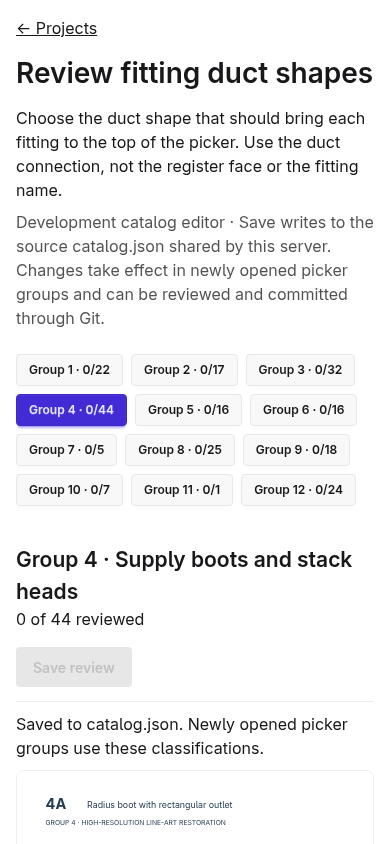
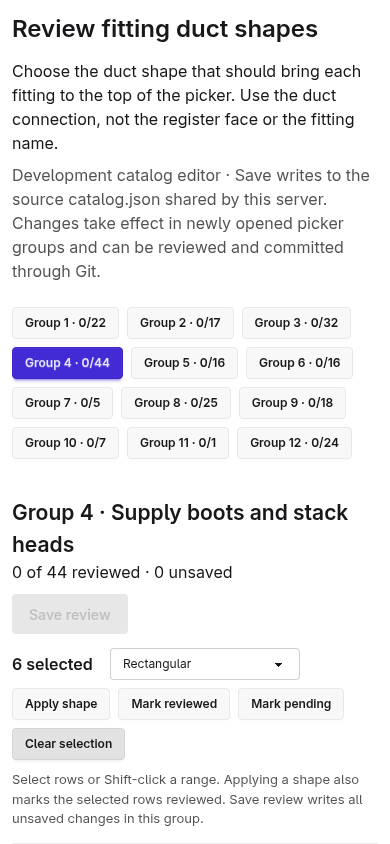
Make catalog review a compact table with bulk classification actions

Changed region(s): [[0.0308, 0.0, 0.9538, 0.7393], [0.0308, 0.7701, 0.9231, 0.9858]]

diff --git a/Sources/ViewController/Views/FittingPicker/CatalogReviewView.swift b/Sources/ViewController/Views/FittingPicker/CatalogReviewView.swift
@@ -76,43 +76,111 @@ struct CatalogReviewView: HTML, Sendable {
         }
       }
       div(.class("review-save-bar")) {
-        div {
-          h2 { "Group \(group.rawValue) · \(entries.first?.groupTitle ?? "Fittings")" }
-          p(.id("review-progress")) {
-            "\(entries.filter(\.reviewed).count) of \(entries.count) reviewed"
+        div(.class("review-save-heading")) {
+          div {
+            h2 { "Group \(group.rawValue) · \(entries.first?.groupTitle ?? "Fittings")" }
+            p(.id("review-progress")) {
+              "\(entries.filter(\.reviewed).count) of \(entries.count) reviewed"
+            }
+          }
+          button(.id("save-catalog-review"), .type(.button), .class("btn btn-primary"), .disabled) {
+            "Save review"
           }
         }
-        button(.id("save-catalog-review"), .type(.button), .class("btn btn-primary"), .disabled) {
-          "Save review"
+        div(
+          .class("review-bulk"), .init(name: "role", value: "group"),
+          .init(name: "aria-label", value: "Bulk review actions")
+        ) {
+          span(.id("review-selection-count"), .init(name: "role", value: "status")) { "0 selected" }
+          select(
+            .id("review-bulk-shape"), .class("select select-bordered select-sm"),
+            .init(name: "aria-label", value: "Duct shape for selected rows")
+          ) {
+            option(.value("")) { "Choose duct shape…" }
+            for shape in Fitting.Shape.allCases {
+              option(.value(shape.rawValue)) { shape.reviewLabel }
+            }
+          }
+          button(.id("review-apply-shape"), .type(.button), .class("btn btn-sm"), .disabled) {
+            "Apply shape"
+          }
+          button(.id("review-mark-reviewed"), .type(.button), .class("btn btn-sm"), .disabled) {
+            "Mark reviewed"
+          }
+          button(.id("review-mark-pending"), .type(.button), .class("btn btn-sm"), .disabled) {
+            "Mark pending"
+          }
+          button(
+            .id("review-clear-selection"), .type(.button), .class("btn btn-sm btn-ghost"), .disabled
+          ) { "Clear selection" }
+        }
+        p(.class("review-note review-selection-help")) {
+          "Select rows or Shift-click a range. Applying a shape also marks the selected rows reviewed. Save review writes all unsaved changes in this group."
         }
       }
       p(.id("review-status"), .init(name: "role", value: "status")) {}
-      div(.class("review-grid")) {
-        for entry in entries {
-          article(.class("review-card"), .data("review-id", value: entry.id.rawValue)) {
-            a(.href(entry.artwork.versionedPath), .target("_blank"), .rel("noopener")) {
-              img(
-                .src(entry.artwork.versionedPath), .alt(entry.artwork.altText),
-                .init(name: "loading", value: "lazy"))
+      div(
+        .class("review-table-scroll"), .init(name: "tabindex", value: "0"),
+        .init(name: "role", value: "region"),
+        .init(name: "aria-label", value: "Fitting classifications")
+      ) {
+        table(.class("review-table")) {
+          thead {
+            tr {
+              th(.init(name: "scope", value: "col")) {
+                input(
+                  .id("review-select-all"), .type(.checkbox), .class("checkbox checkbox-sm"),
+                  .init(name: "aria-label", value: "Select all fittings in this group"))
+              }
+              th(.init(name: "scope", value: "col")) { "Drawing" }
+              th(.init(name: "scope", value: "col")) { "Fitting" }
+              th(.init(name: "scope", value: "col")) { "Prefer for duct shape" }
+              th(.init(name: "scope", value: "col")) { "Reviewed" }
+              th(.init(name: "scope", value: "col")) { "Status" }
             }
-            div(.class("review-card-controls")) {
-              h3 { "\(entry.sourceCode?.rawValue ?? "Group 11") · \(entry.name)" }
-              small { entry.id.rawValue }
-              label {
-                "Prefer for duct shape"
-                select(.name("ductShape"), .class("select select-bordered")) {
-                  for shape in Fitting.Shape.allCases {
-                    option(.value(shape.rawValue)) { shape.reviewLabel }.attributes(
-                      .selected, when: shape == entry.ductShape)
+          }
+          tbody {
+            for entry in entries {
+              let code = entry.sourceCode?.rawValue ?? "Group 11"
+              tr(.data("review-id", value: entry.id.rawValue)) {
+                td {
+                  input(
+                    .type(.checkbox), .name("selected"), .class("checkbox checkbox-sm"),
+                    .init(name: "aria-label", value: "Select \(code)"))
+                }
+                td(.class("review-drawing")) {
+                  a(
+                    .href(entry.artwork.versionedPath), .target("_blank"), .rel("noopener"),
+                    .init(name: "aria-label", value: "Open \(code) drawing at full size")
+                  ) {
+                    img(
+                      .src(entry.artwork.versionedPath), .alt(entry.artwork.altText),
+                      .init(name: "loading", value: "lazy"))
                   }
                 }
+                th(.init(name: "scope", value: "row"), .class("review-fitting")) {
+                  strong { code }
+                  span { entry.name }
+                }
+                td {
+                  select(
+                    .name("ductShape"), .class("select select-bordered select-sm"),
+                    .init(name: "aria-label", value: "Duct shape for \(code)")
+                  ) {
+                    for shape in Fitting.Shape.allCases {
+                      option(.value(shape.rawValue)) { shape.reviewLabel }.attributes(
+                        .selected, when: shape == entry.ductShape)
+                    }
+                  }
+                }
+                td(.class("review-confirm")) {
+                  input(
+                    .type(.checkbox), .name("reviewed"), .class("checkbox checkbox-sm"),
+                    .init(name: "aria-label", value: "Reviewed \(code)")
+                  ).attributes(.checked, when: entry.reviewed)
+                }
+                td(.class("review-card-status")) { entry.reviewed ? "Reviewed" : "Needs review" }
               }
-              label(.class("review-checkbox")) {
-                input(.type(.checkbox), .name("reviewed"), .class("checkbox")).attributes(
-                  .checked, when: entry.reviewed)
-                "I have reviewed this classification"
-              }
-              p(.class("review-card-status")) { entry.reviewed ? "Reviewed" : "Needs review" }
             }
           }
         }

diff --git a/Public/js/catalog-review.js b/Public/js/catalog-review.js
@@ -2,21 +2,64 @@
   function initialize() {
     const root = document.querySelector('#catalog-review'); if (!root || root.dataset.initialized) return;
     root.dataset.initialized = 'true';
-    const cards = [...root.querySelectorAll('[data-review-id]')], save = root.querySelector('#save-catalog-review'), status = root.querySelector('#review-status');
-    let version = root.dataset.version, dirty = false, busy = false;
-    const value = card => ({ id: card.dataset.reviewId, ductShape: card.querySelector('[name=ductShape]').value, reviewed: card.querySelector('[name=reviewed]').checked });
-    let baseline = new Map(cards.map(card => [card.dataset.reviewId, JSON.stringify(value(card))]));
-    function changes() { return cards.map(value).filter(item => JSON.stringify(item) !== baseline.get(item.id)); }
+    const rows = [...root.querySelectorAll('[data-review-id]')], save = root.querySelector('#save-catalog-review'), status = root.querySelector('#review-status');
+    const selectAll = root.querySelector('#review-select-all'), bulkShape = root.querySelector('#review-bulk-shape');
+    const applyShape = root.querySelector('#review-apply-shape'), markReviewed = root.querySelector('#review-mark-reviewed');
+    const markPending = root.querySelector('#review-mark-pending'), clearSelection = root.querySelector('#review-clear-selection');
+    const selected = () => rows.filter(row => row.querySelector('[name=selected]').checked);
+    let version = root.dataset.version, dirty = false, busy = false, selectionAnchor = null;
+    const value = row => ({ id: row.dataset.reviewId, ductShape: row.querySelector('[name=ductShape]').value, reviewed: row.querySelector('[name=reviewed]').checked });
+    let baseline = new Map(rows.map(row => [row.dataset.reviewId, JSON.stringify(value(row))]));
+    function changes() { return rows.map(value).filter(item => JSON.stringify(item) !== baseline.get(item.id)); }
     function update() {
       dirty = changes().length > 0; save.disabled = busy || !dirty;
       let reviewed = 0;
-      for (const card of cards) {
-        const item = value(card), changed = JSON.stringify(item) !== baseline.get(item.id);
-        card.dataset.changed = changed; if (item.reviewed) reviewed++;
-        card.querySelector('.review-card-status').textContent = `${item.reviewed ? 'Reviewed' : 'Needs review'}${changed ? ' · Unsaved' : ''}`;
+      for (const row of rows) {
+        const item = value(row), changed = JSON.stringify(item) !== baseline.get(item.id);
+        row.dataset.changed = changed; if (item.reviewed) reviewed++;
+        row.querySelector('.review-card-status').textContent = `${item.reviewed ? 'Reviewed' : 'Needs review'}${changed ? ' · Unsaved' : ''}`;
       }
-      root.querySelector('#review-progress').textContent = `${reviewed} of ${cards.length} reviewed`;
+      root.querySelector('#review-progress').textContent = `${reviewed} of ${rows.length} reviewed · ${changes().length} unsaved`;
+      const count = selected().length;
+      root.querySelector('#review-selection-count').textContent = `${count} selected`;
+      selectAll.checked = count > 0 && count === rows.length;
+      selectAll.indeterminate = count > 0 && count < rows.length;
+      applyShape.disabled = busy || !count || !bulkShape.value;
+      markReviewed.disabled = markPending.disabled = clearSelection.disabled = busy || !count;
+      for (const row of rows) row.dataset.selected = row.querySelector('[name=selected]').checked;
     }
+    // Shift-click extends the current checkbox state across a contiguous range.
+    root.addEventListener('click', event => {
+      if (event.target.name !== 'selected') return;
+      const index = rows.indexOf(event.target.closest('[data-review-id]'));
+      if (event.shiftKey && selectionAnchor !== null) {
+        for (const row of rows.slice(Math.min(index, selectionAnchor), Math.max(index, selectionAnchor) + 1)) {
+          row.querySelector('[name=selected]').checked = event.target.checked;
+        }
+      }
+      selectionAnchor = index;
+      update();
+    });
+    selectAll.addEventListener('change', () => {
+      for (const row of rows) row.querySelector('[name=selected]').checked = selectAll.checked;
+      selectionAnchor = null;
+      update();
+    });
+    clearSelection.addEventListener('click', () => {
+      for (const row of rows) row.querySelector('[name=selected]').checked = false;
+      selectionAnchor = null;
+      update();
+    });
+    function applyToSelection(shape, reviewed) {
+      for (const row of selected()) {
+        if (shape) row.querySelector('[name=ductShape]').value = shape;
+        row.querySelector('[name=reviewed]').checked = reviewed;
+      }
+      update();
+    }
+    applyShape.addEventListener('click', () => { if (bulkShape.value) applyToSelection(bulkShape.value, true); });
+    markReviewed.addEventListener('click', () => applyToSelection(null, true));
+    markPending.addEventListener('click', () => applyToSelection(null, false));
     root.addEventListener('change', event => {
       // Choosing a classification is an explicit review decision.
       if (event.target.name === 'ductShape') event.target.closest('[data-review-id]').querySelector('[name=reviewed]').checked = true;
@@ -32,10 +75,10 @@
         const saved = template.content.querySelector('[data-review-saved]');
         if (!saved) throw Error(template.content.textContent.trim() || 'Catalog review could not be saved.');
         version = saved.dataset.reviewSaved;
-        baseline = new Map(cards.map(card => [card.dataset.reviewId, JSON.stringify(value(card))]));
+        baseline = new Map(rows.map(row => [row.dataset.reviewId, JSON.stringify(value(row))]));
         status.textContent = saved.textContent;
         const groupLink = root.querySelector(`[data-review-group="${root.dataset.group}"]`);
-        groupLink.textContent = `Group ${root.dataset.group} · ${cards.filter(card => value(card).reviewed).length}/${cards.length}`;
+        groupLink.textContent = `Group ${root.dataset.group} · ${rows.filter(row => value(row).reviewed).length}/${rows.length}`;
       } catch (error) { status.textContent = error.message; }
       finally { busy = false; root.inert = false; update(); }
     });

diff --git a/Public/css/catalog-review.css b/Public/css/catalog-review.css
@@ -1,20 +1,37 @@
-.catalog-review { max-width: 1500px; margin: auto; padding: 24px; }
+.catalog-review { width: 100%; min-width: 0; max-width: 1500px; margin: auto; padding: 24px; }
 .catalog-review h1 { font-size: 28px; font-weight: 600; margin: 12px 0; }
 .catalog-review h2 { font-size: 21px; font-weight: 600; }
-.catalog-review h3 { font-size: 17px; font-weight: 600; }
 .catalog-review header p { max-width: 1000px; margin: 8px 0; }
-.review-note, .review-card small, .review-card-status { opacity: .75; }
+.review-note, .review-card-status { opacity: .75; }
 .review-groups { display: flex; gap: 8px; flex-wrap: wrap; margin: 24px 0; }
-.review-save-bar { display: flex; align-items: center; justify-content: space-between; gap: 16px; flex-wrap: wrap; position: sticky; top: 0; z-index: 2; background: var(--color-base-100); padding: 14px 0; border-bottom: 1px solid var(--color-base-300); }
-#review-status { min-height: 28px; margin: 10px 0; }
-.review-grid { display: grid; grid-template-columns: repeat(3,minmax(0,1fr)); gap: 20px; }
-.review-card { min-width: 0; border: 1px solid var(--color-base-300); border-radius: var(--radius-box, 10px); overflow: hidden; }
-.review-card img { width: 100%; height: 300px; object-fit: contain; background: white; padding: 12px; }
-.review-card-controls { padding: 16px; }
-.review-card label { display: block; margin-top: 16px; }
-.review-card select { display: block; width: 100%; margin-top: 6px; }
-.review-card .review-checkbox { display: flex; gap: 10px; align-items: center; }
-.review-card-status { margin-top: 12px; }
-.review-card[data-changed=true] { border-color: var(--color-primary); }
-@media (max-width: 1000px) { .review-grid { grid-template-columns: repeat(2,minmax(0,1fr)); } }
-@media (max-width: 650px) { .review-grid { grid-template-columns: minmax(0,1fr); } .catalog-review { padding: 16px; } }
+.review-save-bar { position: sticky; top: 0; z-index: 2; background: var(--color-base-100); padding: 14px 0; border-bottom: 1px solid var(--color-base-300); }
+.review-save-heading, .review-bulk { display: flex; align-items: center; gap: 10px; flex-wrap: wrap; }
+.review-save-heading { justify-content: space-between; margin-bottom: 14px; }
+.review-bulk select { width: 190px; }
+#review-selection-count { min-width: 90px; font-weight: 600; }
+.review-selection-help { font-size: 13px; margin-top: 10px; }
+#review-status { min-height: 24px; margin: 8px 0; }
+.review-table-scroll { overflow: auto; max-height: 65vh; border: 1px solid var(--color-base-300); border-radius: var(--radius-box, 10px); }
+.review-table { width: 100%; min-width: 850px; border-collapse: separate; border-spacing: 0; font-size: 14px; }
+.review-table thead th { position: sticky; top: 0; z-index: 1; background: var(--color-base-200); font-size: 13px; white-space: nowrap; }
+.review-table th, .review-table td { padding: 8px 12px; text-align: left; border-bottom: 1px solid var(--color-base-300); vertical-align: middle; }
+.review-table tbody tr:last-child > * { border-bottom: 0; }
+.review-table tbody tr:hover { background: var(--color-base-200); }
+.review-table tr[data-selected=true], .review-table tr[data-selected=true]:hover { background: color-mix(in srgb, var(--color-primary) 10%, var(--color-base-100)); }
+.review-table tr[data-changed=true] > :first-child { box-shadow: inset 3px 0 var(--color-primary); }
+.review-drawing { width: 116px; }
+.review-drawing a { display: block; }
+.review-drawing img { display: block; width: 92px; height: 76px; object-fit: contain; background: white; padding: 4px; border-radius: 4px; }
+.review-fitting { min-width: 210px; font-weight: 400; }
+.review-fitting strong, .review-fitting span { display: block; }
+.review-fitting strong { margin-bottom: 3px; }
+.review-table select { width: 180px; }
+.review-table .review-confirm { text-align: center; }
+.review-card-status { width: 150px; }
+@media (max-width: 650px) {
+  .catalog-review { padding: 12px; }
+  .catalog-review h1 { font-size: 24px; }
+  .review-save-bar { position: static; }
+  .review-bulk { gap: 8px; }
+  .review-table-scroll { max-height: 70vh; }
+}

diff --git a/docs/fitting-catalog-review.md b/docs/fitting-catalog-review.md
@@ -4,13 +4,18 @@ Open **`http://localhost:8081/fittings/review?group=4`** through the existing SS
 forward, and sign in with your review-app account. The picker also links to **Review
 catalog duct shapes** when this feature is enabled.
 
-1. Select a group and inspect each drawing. Click a drawing to open it at full size.
-2. Choose **Round**, **Rectangular**, **Oval**, **Mixed / transition**, or
-   **Shape-independent** for the duct connection used by the picker.
-3. If the existing choice is correct, check **I have reviewed this classification**.
-   Changing the choice checks it automatically; you can uncheck it to leave it pending.
-4. Click **Save review**. Unsaved cards are highlighted, and leaving with unsaved
-   choices triggers the browser's confirmation.
+1. Select a group. The compact table shows a drawing, fitting name, duct shape, and
+   review status for each fitting. Click a drawing to open it at full size.
+2. Select individual rows, **Shift-click** a range, or use the header checkbox to
+   select the entire group. Selection alone makes no catalog changes.
+3. Choose a duct shape in the bulk toolbar and click **Apply shape** to classify all
+   selected rows and mark them reviewed. **Mark reviewed** confirms their existing
+   shapes; **Mark pending** clears review status without changing shapes. Individual
+   row controls remain available for exceptions.
+4. Click **Save review** to write all unsaved changes in this group, including rows
+   no longer selected. Changed rows and the unsaved count show the pending work;
+   leaving with unsaved choices triggers the browser's confirmation. Selection
+   persists after saving and **Clear selection** only clears the row selection.
 5. Reopen the fitting group in the picker to see the saved ordering. Existing open
    picker cards retain their current draft until that group is reopened.
 
@@ -91,7 +96,8 @@ maintaining a second classification table in Swift.
 The browser review test uses a **disposable catalog copy and database**, verifies
 login requirements, edits/saves/reloads classifications, checks the live picker
 fragment, rejects stale/invalid writes, restores the exact original file through the
-UI, and checks desktop/mobile layouts:
+UI, tests range/select-all bulk edits and failed-save retry, and checks desktop/mobile
+layouts:
 
 ```sh
 FITTING_REVIEW_URL=http://localhost:YOUR_QA_PORT \
